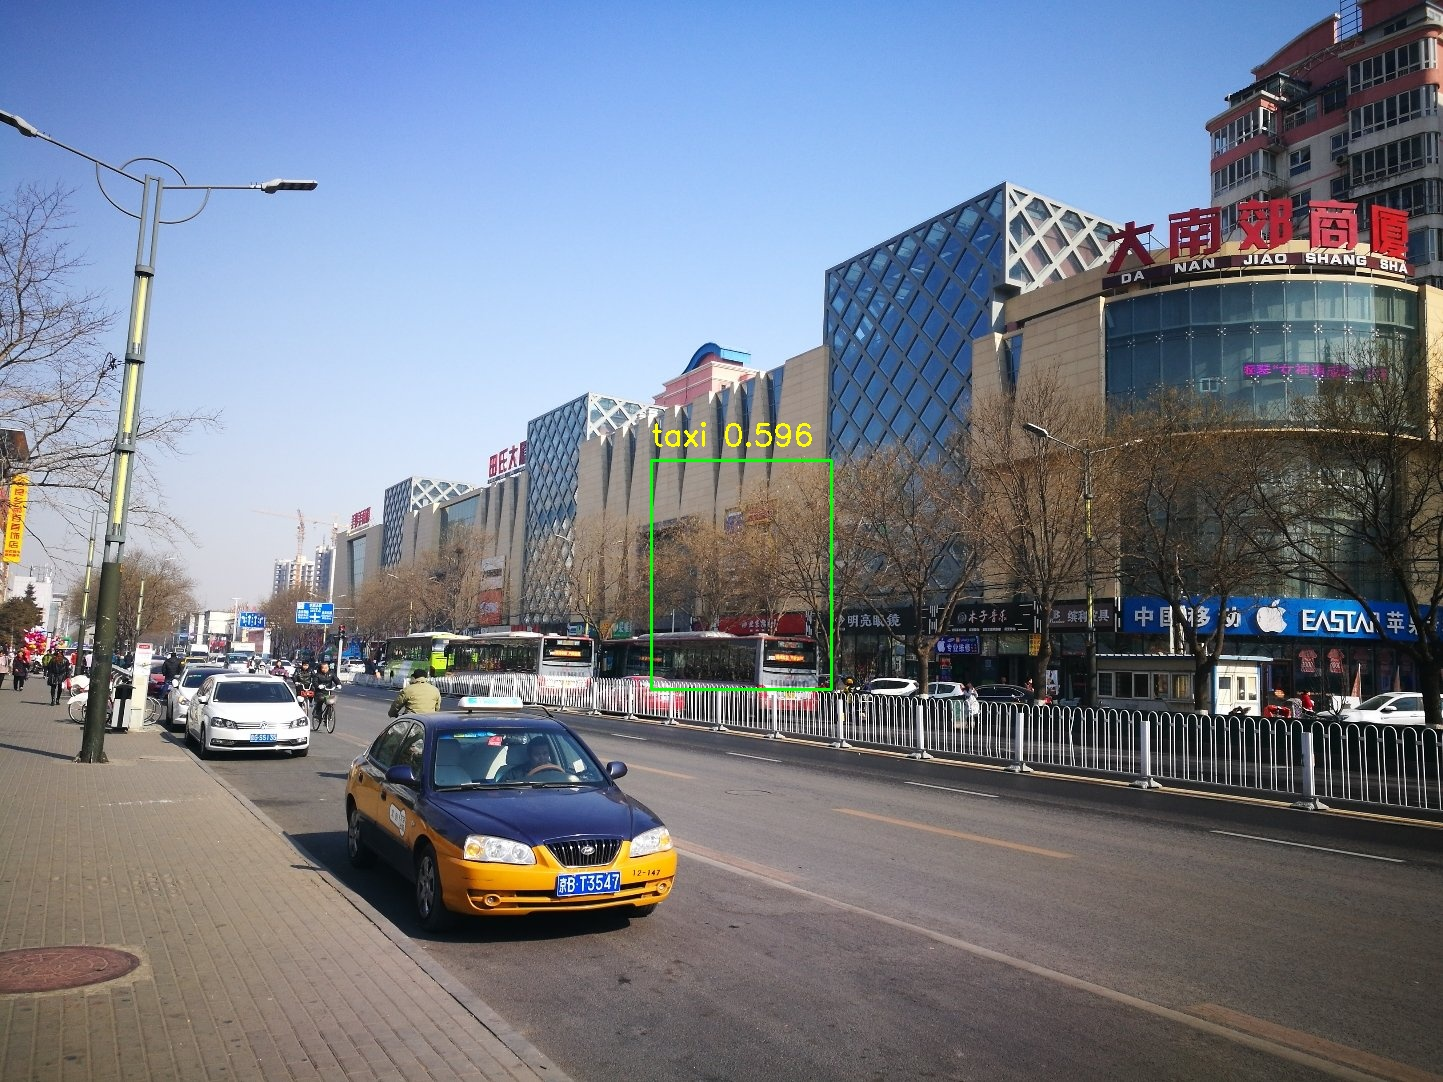
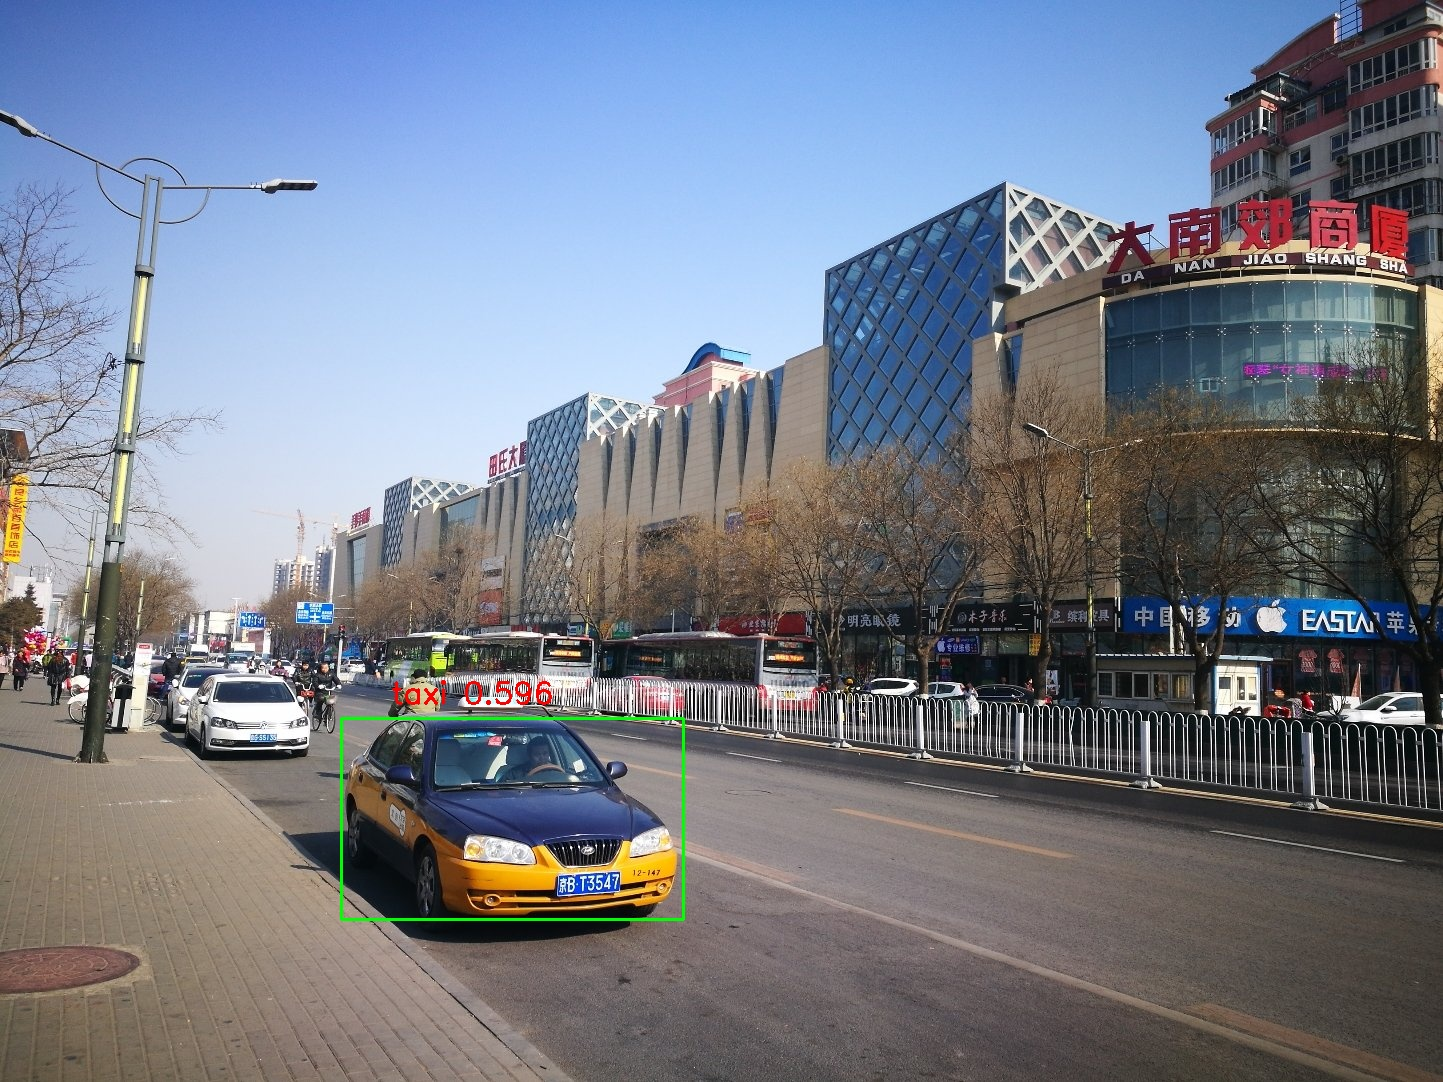
图像标注

Changed region(s): [[0.2495, 0.366, 0.5925, 0.671], [0.2183, 0.671, 0.499, 0.854]]

diff --git a/src/app/draw_box_matplot.py b/src/app/draw_box_matplot.py
@@ -7,3 +7,36 @@
 @File: draw_box_matplot.py
 @Project: PyCharm
 """
+
+import cv2
+from PIL import Image, ImageFont
+from PIL import ImageDraw
+
+
+def draw():
+    file_name = 'taxi.jpg'
+    img = Image.open(file_name)
+    drawer = ImageDraw.ImageDraw(img)
+    # 左上(X,Y)
+    pt1 = (341, 718)
+    # 右下(X,Y)
+    pt2 = (341 + 342, 718 + 201)
+    # 画框: 在边界框的两点（左上角、右下角）画矩形，无填充，边框红色，边框像素为5
+    drawer.rectangle((pt1, pt2), fill=None, outline='red', width=3)
+    # 类别名称
+    object_type = 'taxi'
+    # 置信度
+    credence = 0.596
+    # 定义字体
+
+    font = ImageFont.truetype(r'C:\Windows\Fonts\Arial.ttf', 36)
+    drawer.text((341 + 50, 718 - 40), '{} {:.3f}'.format(object_type, credence), (255, 0, 0), font=font)
+
+    pic_drew_path = "res/taxi-pil.jpg"
+    img.save(pic_drew_path)
+    cv2.imshow('image', cv2.imread(pic_drew_path))
+    cv2.waitKey(0)
+
+
+if __name__ == '__main__':
+    draw()

diff --git a/src/app/draw_box_cv.py b/src/app/draw_box_cv.py
@@ -3,7 +3,32 @@
 
 """
 @Time : 2021/7/4 12:16
-@Author: hudal
+@Author: RunAtWorld
 @File: draw_box_cv.py
 @Project: PyCharm
 """
+
+import cv2
+
+
+def draw():
+    image_path = './taxi.jpg'
+    img = cv2.imread(image_path)
+    # 左上(X,Y)
+    pt1 = (341, 718)
+    # 右下(X,Y)
+    pt2 = (341 + 342, 718 + 201)
+    cv2.rectangle(img, pt1, pt2, (0, 255, 0), 2)
+    # 类别名称
+    object_type = 'taxi'
+    # 置信度
+    credence = 0.596
+    # 定义字体
+    font = cv2.FONT_HERSHEY_SIMPLEX
+    # 打标签: 文字内容, 左上角坐标,字体,大小,颜色,字体厚度
+    cv2.putText(img, '{} {:.3f}'.format(object_type, credence), (341 + 50, 718 - 15), font, 1, (0, 0, 255), 2)
+    cv2.imwrite('./res/taxi-cv.jpg', img)
+
+
+if __name__ == '__main__':
+    draw()
